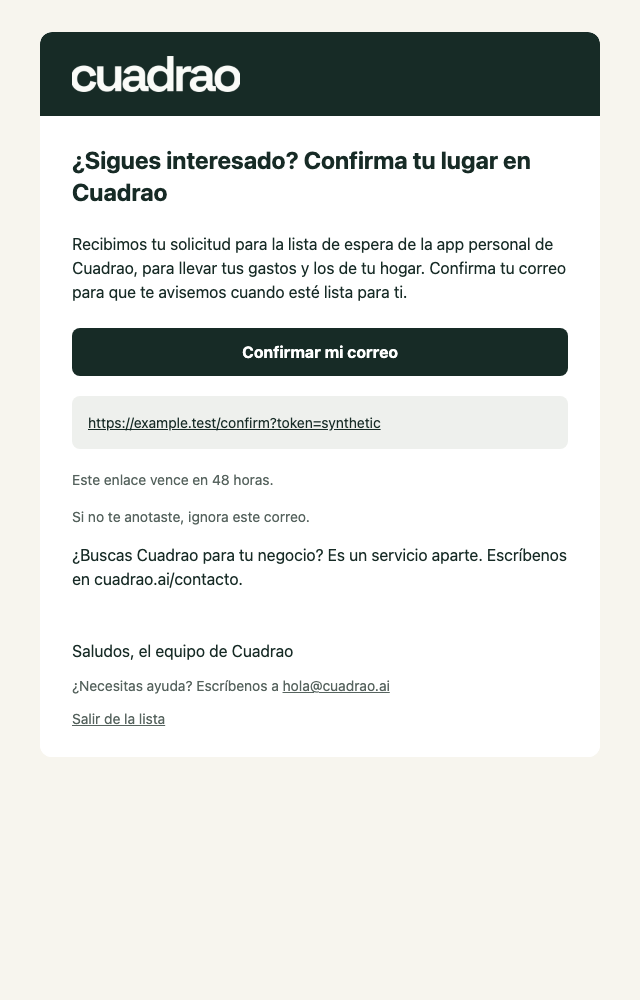
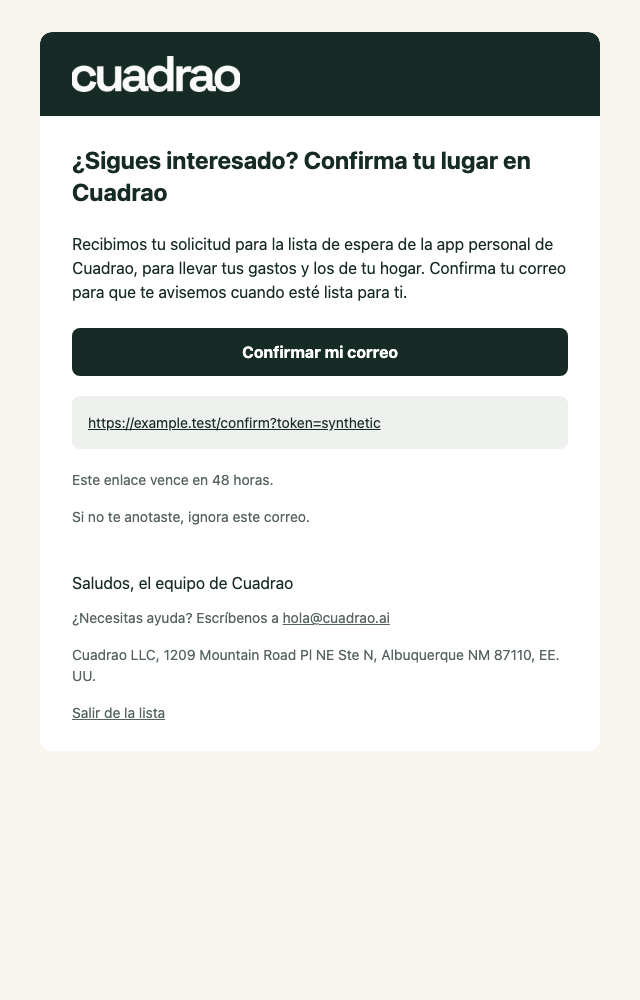
fix(email): limit the postal footer to waitlist messages

diff --git a/marketing/lib/email/account-layout.ts b/marketing/lib/email/account-layout.ts
@@ -14,8 +14,8 @@ type EmailContent = {
   beforeFooter?: string;
 };
 export type AccountEmail = EmailContent & (
-  | { code?: string; unsubscribeUrl?: never }
-  | { code?: never; unsubscribeUrl: string }
+  | { code?: string; unsubscribeUrl?: never; postalAddress?: never }
+  | { code?: never; unsubscribeUrl: string; postalAddress?: string }
 );
 
 const font = "-apple-system,BlinkMacSystemFont,'Segoe UI',Arial,Helvetica,sans-serif";
@@ -36,6 +36,7 @@ export function renderAccountEmail(content: AccountEmail): { html: string; text:
   if (content.code !== undefined && (!/^\d{6,10}$/.test(content.code) || content.unsubscribeUrl)) {
     throw new Error("Invalid account email code");
   }
+  if (content.postalAddress && !content.unsubscribeUrl) throw new Error("Postal addresses are only for waitlist mail");
   const p = emailPalette;
   const paragraph = (value: string) => `<p class="copy" style="margin:0 0 20px;color:${p.text};font-size:16px;line-height:24px">${escapeHtml(value)}</p>`;
   const muted = (value: string) => `<p class="muted" style="margin:16px 0;color:${p.muted};font-size:14px;line-height:21px">${escapeHtml(value)}</p>`;
@@ -56,6 +57,7 @@ export function renderAccountEmail(content: AccountEmail): { html: string; text:
 <!--[if !mso]><!--><a class="button" href="${href}" style="display:block;box-sizing:border-box;width:100%;min-height:48px;padding:12px 16px;border-radius:8px;background:${p.text};color:#ffffff;font-size:16px;line-height:24px;font-weight:700;text-decoration:none;text-align:center">${label}</a><!--<![endif]-->
 </td></tr></table><p class="fallback" style="margin:0 0 20px;padding:16px;background:${p.grey};color:${p.text};border-radius:8px;font-size:14px;line-height:21px;overflow-wrap:anywhere;word-break:break-all"><a class="fallback" href="${href}" style="color:${p.text};text-decoration:underline;overflow-wrap:anywhere;word-break:break-all">${href}</a></p>`;
   }
+  const address = content.postalAddress ? muted(content.postalAddress) : "";
   const leave = content.unsubscribeUrl
     ? `<p class="muted" style="margin:12px 0 0;color:${p.muted};font-size:14px;line-height:21px"><a href="${safeUrl(content.unsubscribeUrl)}" style="color:inherit;text-decoration:underline">Salir de la lista</a></p>` : "";
   const code = content.code
@@ -64,11 +66,12 @@ export function renderAccountEmail(content: AccountEmail): { html: string; text:
 <body class="page" style="margin:0;padding:32px 12px;background:${p.page};font-family:${font}"><table role="presentation" width="100%" cellpadding="0" cellspacing="0"><tr><td align="center"><table class="card" role="presentation" width="560" cellpadding="0" cellspacing="0" style="width:100%;max-width:560px;background:${p.card};border-radius:12px;overflow:hidden"><tr><td style="padding:24px 32px;background:${p.text};border-radius:12px 12px 0 0">
 <img class="logo-light" src="${assets}/wordmark-light.png" alt="Cuadrao" width="168" height="36" style="display:block;border:0;color:#fafbf8;font-size:24px;font-weight:bold">
 <!--[if !mso]><!--><img class="logo-dark" src="${assets}/wordmark-dark.png" alt="Cuadrao" width="168" height="36" style="display:none;max-height:0;overflow:hidden;border:0;color:#fafbf8;font-size:24px;font-weight:bold"><!--<![endif]-->
-</td></tr><tr><td style="padding:28px 32px 8px"><h1 class="title" style="margin:0 0 24px;color:${p.text};font-size:24px;line-height:32px;font-weight:700">${escapeHtml(content.title)}</h1>${code}${content.code && content.expiryNote ? muted(content.expiryNote) : ""}${content.paragraphs.map(paragraph).join("")}${action}${!content.code && content.expiryNote ? muted(content.expiryNote) : ""}${content.afterAction ? muted(content.afterAction) : ""}${content.beforeFooter ? paragraph(content.beforeFooter) : ""}</td></tr><tr><td class="footer" style="padding:20px 32px 28px;background:${p.card}"><p class="copy" style="margin:0 0 12px;color:${p.text};font-size:16px;line-height:24px">Saludos, el equipo de Cuadrao</p><p class="muted" style="margin:0;color:${p.muted};font-size:14px;line-height:21px">¿Necesitas ayuda? Escríbenos a <a href="mailto:hola@cuadrao.ai" style="color:inherit;text-decoration:underline">hola@cuadrao.ai</a></p>${leave}</td></tr></table></td></tr></table></body></html>`;
+</td></tr><tr><td style="padding:28px 32px 8px"><h1 class="title" style="margin:0 0 24px;color:${p.text};font-size:24px;line-height:32px;font-weight:700">${escapeHtml(content.title)}</h1>${code}${content.code && content.expiryNote ? muted(content.expiryNote) : ""}${content.paragraphs.map(paragraph).join("")}${action}${!content.code && content.expiryNote ? muted(content.expiryNote) : ""}${content.afterAction ? muted(content.afterAction) : ""}${content.beforeFooter ? paragraph(content.beforeFooter) : ""}</td></tr><tr><td class="footer" style="padding:20px 32px 28px;background:${p.card}"><p class="copy" style="margin:0 0 12px;color:${p.text};font-size:16px;line-height:24px">Saludos, el equipo de Cuadrao</p><p class="muted" style="margin:0;color:${p.muted};font-size:14px;line-height:21px">¿Necesitas ayuda? Escríbenos a <a href="mailto:hola@cuadrao.ai" style="color:inherit;text-decoration:underline">hola@cuadrao.ai</a></p>${address}${leave}</td></tr></table></td></tr></table></body></html>`;
   const text = [content.title, content.code, ...content.paragraphs,
     content.action && `${content.action.label}\n${content.action.url}`,
     content.expiryNote, content.afterAction, content.beforeFooter,
     "Saludos, el equipo de Cuadrao", "¿Necesitas ayuda? Escríbenos a hola@cuadrao.ai",
+    content.postalAddress,
     content.unsubscribeUrl && `Salir de la lista\n${content.unsubscribeUrl}`,
   ].filter(Boolean).join("\n\n");
   return { html, text };

diff --git a/web/server/emails/account-layout.generated.ts b/web/server/emails/account-layout.generated.ts
@@ -15,8 +15,8 @@ type EmailContent = {
   beforeFooter?: string;
 };
 export type AccountEmail = EmailContent & (
-  | { code?: string; unsubscribeUrl?: never }
-  | { code?: never; unsubscribeUrl: string }
+  | { code?: string; unsubscribeUrl?: never; postalAddress?: never }
+  | { code?: never; unsubscribeUrl: string; postalAddress?: string }
 );
 
 const font = "-apple-system,BlinkMacSystemFont,'Segoe UI',Arial,Helvetica,sans-serif";
@@ -37,6 +37,7 @@ export function renderAccountEmail(content: AccountEmail): { html: string; text:
   if (content.code !== undefined && (!/^\d{6,10}$/.test(content.code) || content.unsubscribeUrl)) {
     throw new Error("Invalid account email code");
   }
+  if (content.postalAddress && !content.unsubscribeUrl) throw new Error("Postal addresses are only for waitlist mail");
   const p = emailPalette;
   const paragraph = (value: string) => `<p class="copy" style="margin:0 0 20px;color:${p.text};font-size:16px;line-height:24px">${escapeHtml(value)}</p>`;
   const muted = (value: string) => `<p class="muted" style="margin:16px 0;color:${p.muted};font-size:14px;line-height:21px">${escapeHtml(value)}</p>`;
@@ -57,6 +58,7 @@ export function renderAccountEmail(content: AccountEmail): { html: string; text:
 <!--[if !mso]><!--><a class="button" href="${href}" style="display:block;box-sizing:border-box;width:100%;min-height:48px;padding:12px 16px;border-radius:8px;background:${p.text};color:#ffffff;font-size:16px;line-height:24px;font-weight:700;text-decoration:none;text-align:center">${label}</a><!--<![endif]-->
 </td></tr></table><p class="fallback" style="margin:0 0 20px;padding:16px;background:${p.grey};color:${p.text};border-radius:8px;font-size:14px;line-height:21px;overflow-wrap:anywhere;word-break:break-all"><a class="fallback" href="${href}" style="color:${p.text};text-decoration:underline;overflow-wrap:anywhere;word-break:break-all">${href}</a></p>`;
   }
+  const address = content.postalAddress ? muted(content.postalAddress) : "";
   const leave = content.unsubscribeUrl
     ? `<p class="muted" style="margin:12px 0 0;color:${p.muted};font-size:14px;line-height:21px"><a href="${safeUrl(content.unsubscribeUrl)}" style="color:inherit;text-decoration:underline">Salir de la lista</a></p>` : "";
   const code = content.code
@@ -65,11 +67,12 @@ export function renderAccountEmail(content: AccountEmail): { html: string; text:
 <body class="page" style="margin:0;padding:32px 12px;background:${p.page};font-family:${font}"><table role="presentation" width="100%" cellpadding="0" cellspacing="0"><tr><td align="center"><table class="card" role="presentation" width="560" cellpadding="0" cellspacing="0" style="width:100%;max-width:560px;background:${p.card};border-radius:12px;overflow:hidden"><tr><td style="padding:24px 32px;background:${p.text};border-radius:12px 12px 0 0">
 <img class="logo-light" src="${assets}/wordmark-light.png" alt="Cuadrao" width="168" height="36" style="display:block;border:0;color:#fafbf8;font-size:24px;font-weight:bold">
 <!--[if !mso]><!--><img class="logo-dark" src="${assets}/wordmark-dark.png" alt="Cuadrao" width="168" height="36" style="display:none;max-height:0;overflow:hidden;border:0;color:#fafbf8;font-size:24px;font-weight:bold"><!--<![endif]-->
-</td></tr><tr><td style="padding:28px 32px 8px"><h1 class="title" style="margin:0 0 24px;color:${p.text};font-size:24px;line-height:32px;font-weight:700">${escapeHtml(content.title)}</h1>${code}${content.code && content.expiryNote ? muted(content.expiryNote) : ""}${content.paragraphs.map(paragraph).join("")}${action}${!content.code && content.expiryNote ? muted(content.expiryNote) : ""}${content.afterAction ? muted(content.afterAction) : ""}${content.beforeFooter ? paragraph(content.beforeFooter) : ""}</td></tr><tr><td class="footer" style="padding:20px 32px 28px;background:${p.card}"><p class="copy" style="margin:0 0 12px;color:${p.text};font-size:16px;line-height:24px">Saludos, el equipo de Cuadrao</p><p class="muted" style="margin:0;color:${p.muted};font-size:14px;line-height:21px">¿Necesitas ayuda? Escríbenos a <a href="mailto:hola@cuadrao.ai" style="color:inherit;text-decoration:underline">hola@cuadrao.ai</a></p>${leave}</td></tr></table></td></tr></table></body></html>`;
+</td></tr><tr><td style="padding:28px 32px 8px"><h1 class="title" style="margin:0 0 24px;color:${p.text};font-size:24px;line-height:32px;font-weight:700">${escapeHtml(content.title)}</h1>${code}${content.code && content.expiryNote ? muted(content.expiryNote) : ""}${content.paragraphs.map(paragraph).join("")}${action}${!content.code && content.expiryNote ? muted(content.expiryNote) : ""}${content.afterAction ? muted(content.afterAction) : ""}${content.beforeFooter ? paragraph(content.beforeFooter) : ""}</td></tr><tr><td class="footer" style="padding:20px 32px 28px;background:${p.card}"><p class="copy" style="margin:0 0 12px;color:${p.text};font-size:16px;line-height:24px">Saludos, el equipo de Cuadrao</p><p class="muted" style="margin:0;color:${p.muted};font-size:14px;line-height:21px">¿Necesitas ayuda? Escríbenos a <a href="mailto:hola@cuadrao.ai" style="color:inherit;text-decoration:underline">hola@cuadrao.ai</a></p>${address}${leave}</td></tr></table></td></tr></table></body></html>`;
   const text = [content.title, content.code, ...content.paragraphs,
     content.action && `${content.action.label}\n${content.action.url}`,
     content.expiryNote, content.afterAction, content.beforeFooter,
     "Saludos, el equipo de Cuadrao", "¿Necesitas ayuda? Escríbenos a hola@cuadrao.ai",
+    content.postalAddress,
     content.unsubscribeUrl && `Salir de la lista\n${content.unsubscribeUrl}`,
   ].filter(Boolean).join("\n\n");
   return { html, text };

diff --git a/web/__tests__/shared-account-email.test.ts b/web/__tests__/shared-account-email.test.ts
@@ -42,6 +42,16 @@ describe("shared account email layout", () => {
     expect(rendered.html).not.toContain('<p class="code"');
     expect(rendered.text).toContain("Este enlace vence en 48 horas.");
   });
+  test("only waitlist mail accepts the configured postal address", () => {
+    const address = "Cuadrao LLC, 1209 Mountain Road Pl NE Ste N, Albuquerque NM 87110, EE. UU.";
+    const rendered = renderAccountEmail({title: "Lista", paragraphs: [], unsubscribeUrl: link, postalAddress: address});
+    expect(rendered.text).toContain(address);
+    expect(rendered.html).toContain(address);
+    expect(rendered.html.indexOf(address)).toBeGreaterThan(rendered.html.indexOf("hola@cuadrao.ai"));
+    // @ts-expect-error Account mail cannot contain a postal address.
+    expect(() => renderAccountEmail({title: "Cuenta", paragraphs: [], postalAddress: address})).toThrow();
+    expect(renderAccountEmail({title: "Cuenta", paragraphs: []}).text).not.toContain(address);
+  });
   test("rejects script, credential and header-injection URLs", () => {
     for (const url of ["javascript:alert(1)", "https://user:pass@example.test", "https://example.test/\r\nx"]) {
       expect(() => renderAccountEmail({title: "x", paragraphs: [], action: {label: "x", url}})).toThrow();

diff --git a/docs/reports/evidence/shared-account-email/README.md b/docs/reports/evidence/shared-account-email/README.md
@@ -21,8 +21,8 @@ These drafts remove codes from non-signup subjects as required by the latest loc
 
 The screenshots use synthetic tokens and locally served wordmark assets. There
 are light and dark renders for six account actions and four waitlist templates.
-Waitlist copy comes from the separate waitlist writer. The launch preview has no
-body because no launch wording was supplied. It cannot send automatically.
+Waitlist copy comes from the separate waitlist writer. The waitlist footer uses the configured postal address and has no Business pitch.
+The launch preview has no body because no launch wording was supplied. It cannot send automatically.
 
 Local verification covers HTML escaping, unsafe URL refusal, unbroken codes,
 mutually exclusive waitlist unsubscribe and account code content, footer position,
@@ -36,7 +36,7 @@ Detection signals remain the existing Auth hook HTTP result and provider deliver
 status. No recipient, code, token or raw message is added to logs.
 
 Verification on the delivery tree passed 2,662 web tests in 276 files with 19,455
-assertions. The focused email set passed 17 tests. The production web build,
+assertions. The final focused email set passed 18 tests. The production web build,
 changed-file lint, whitespace checks and modularity budget passed. Twenty-two
 local screenshots show the old recovery layout and the new account and waitlist
 layouts in both color schemes. No hosted inbox result is claimed by these checks.
